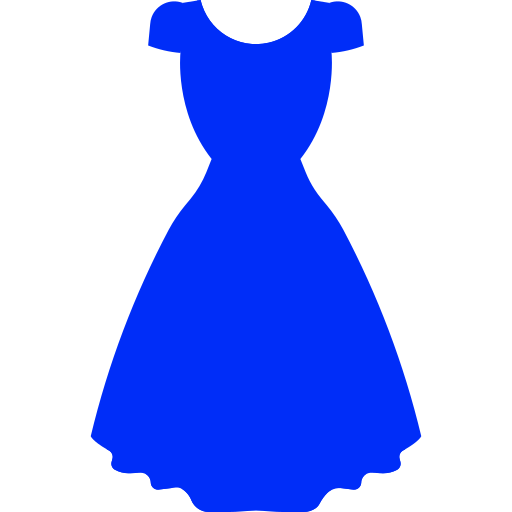
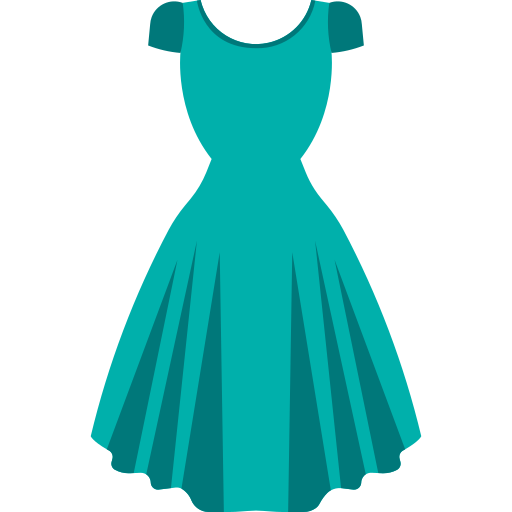
JS added

diff --git a/index.html b/index.html
@@ -1,42 +1,83 @@
 <!DOCTYPE html>
 <html lang="en">
+
 <head>
     <meta charset="UTF-8">
     <meta name="viewport" content="width=device-width, initial-scale=1.0">
     <title>Dress</title>
     <style>
-        body{
+        body {
             background-color: #FA8BFF;
             background-image: linear-gradient(45deg, #FA8BFF 25%, #2BD2FF 52%, #2BFF88 90%);
             min-height: 100vh;
         }
-        .heading{
+
+        .heading {
             text-align: center;
         }
-        .container{
+
+        .container {
             background-color: white;
             border-radius: 30px;
             padding: 20px;
             display: block;
             margin: 10px auto;
         }
-        .image{
+
+        .image {
             display: block;
             margin: 10px auto;
         }
+        .buttons{
+            display: flex;
+            flex-direction: row;
+            justify-content: space-around;
+            padding: 10px;
+        }
+        .colour-button {
+            padding: 10px 40px;
+            font-size: 20px; 
+            border-radius: 30px; 
+            border: solid 1px black;          
+        }
     </style>
 </head>
+
 <body>
     <h1 class="heading">Buy Your Favourite colour!</h1>
     <div class="container">
-        <img src="pink-dress.png" id="dress" height="400vh" class="image"/>
-        <button type="button" id="redDress" onclick="redDress()" class="colour-button">Red</button>
-        <button type="button" id="pinkDress" onclick="pinkDress()" class="colour-button">Pink</button>
-        <button type="button" id="blueDress" onclick="blueDress()" class="colour-button">Blue</button>
-        <button type="button" id="greenDress" onclick="greenDress()" class="colour-button">Green</button>
-        <button type="button" id="blackDress" onclick="blackDress()" class="colour-button">Black</button>
+        <img src="pink-dress.png" id="dress" height="400vh" class="image" />
+        <div class="buttons">
+            <button type="button" id="redDress" onclick="redDress()" class="colour-button">Red</button>
+            <button type="button" id="pinkDress" onclick="pinkDress()" class="colour-button">Pink</button>
+            <button type="button" id="blueDress" onclick="blueDress()" class="colour-button">Blue</button>
+            <button type="button" id="greenDress" onclick="greenDress()" class="colour-button">Green</button>
+            <button type="button" id="blackDress" onclick="blackDress()" class="colour-button">Black</button>
+        </div>
     </div>
-    
-    
+    <script>
+        function redDress() {
+            const colour = document.getElementById("dress");
+            colour.src = "red-dress.png";
+        }
+        function pinkDress() {
+            const colour = document.getElementById("dress");
+            colour.src = "pink-dress.png";
+        }
+        function blueDress() {
+            const colour = document.getElementById("dress");
+            colour.src = "blue-dress.png";
+        }
+        function greenDress() {
+            const colour = document.getElementById("dress");
+            colour.src = "green-dress.png";
+        }
+        function blackDress() {
+            const colour = document.getElementById("dress");
+            colour.src = "black-dress.png";
+        }
+    </script>
+
 </body>
+
 </html>
